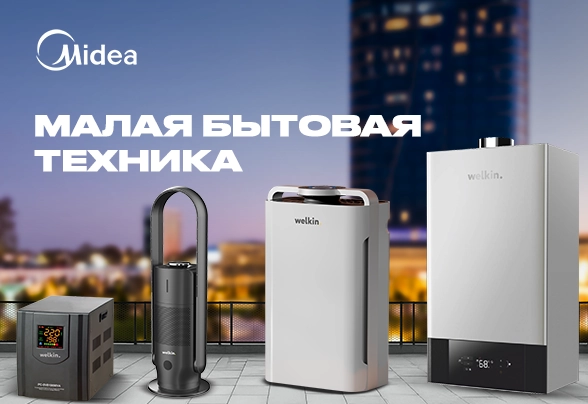
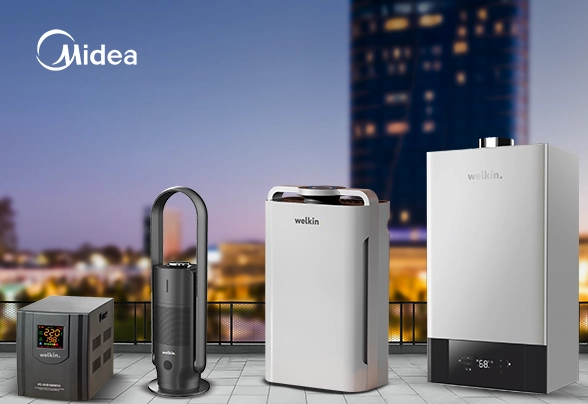
upd

Changed region(s): [[0.0612, 0.2673, 0.7347, 0.4455]]

diff --git a/src/Components/Homepage/Banners.tsx b/src/Components/Homepage/Banners.tsx
@@ -1,58 +1,17 @@
-"use client";
 import styles from "./Homepage.module.scss";
-import { MdNavigateNext } from "react-icons/md";
-import { Autoplay, EffectFade, Navigation, Pagination } from "swiper/modules";
-import { Swiper, SwiperSlide } from "swiper/react";
-import { bannerImages } from "./Data/Banners.data";
 import Image from "next/image";
-import "swiper/css";
-import "swiper/css/effect-fade";
-import "swiper/css/pagination";
+import banner from "@/../public/Img/Homepage/Slider/iphone midea.webp";
+import bannerM from "@/../public/Img/Homepage/Slider/iphone midea mob.webp";
 import Link from "next/link";
 
 function Banners() {
      return (
           <section className={styles.banners}>
                <div className="container">
-                    <Swiper
-                         className={styles.banners__swiper}
-                         slidesPerView={1}
-                         loop
-                         effect={"fade"}
-                         pagination={{
-                              clickable: true,
-                              el: `.${styles.banners__bulletContainer}`,
-                         }}
-                         navigation={{
-                              nextEl: `.${styles.banners__nextSlide}`,
-                              prevEl: `.${styles.banners__prevSlide}`,
-                         }}
-                         autoplay={{
-                              delay: 5000,
-                              pauseOnMouseEnter: true,
-                         }}
-                         modules={[Autoplay, EffectFade, Navigation, Pagination]}
-                    >
-                         <button className={styles.banners__nextSlide}>
-                              <MdNavigateNext />
-                         </button>
-                         <button className={styles.banners__prevSlide}>
-                              <MdNavigateNext />
-                         </button>
-                         <div className={styles.banners__bulletContainer}></div>
-                         {bannerImages.map((el, index) => {
-                              return (
-                                   <SwiperSlide key={index}>
-                                        <Link href={el.href} className={styles.banners__imgBody}>
-                                             <Image priority src={el.pc} alt="слайд" fill style={{ objectFit: "cover" }} />
-                                        </Link>
-                                        <Link href={el.href} className={styles.banners__imgBodyM}>
-                                             <Image priority src={el.mobile} alt="слайд" fill style={{ objectFit: "cover" }} />
-                                        </Link>
-                                   </SwiperSlide>
-                              );
-                         })}
-                    </Swiper>
+                    <Link href={"/catalog/air-conditioners"} className="overflow-hidden block rounded-[10px]">
+                         <Image src={banner} alt="Midea iPhone акция" width={1920} height={1080} className="h-auto w-full object-cover hidden md:block" />
+                         <Image src={bannerM} alt="Midea iPhone акция" width={1920} height={1080} className="h-auto w-full object-cover block md:hidden" />
+                    </Link>
                </div>
           </section>
      );

diff --git a/src/app/catalog/page.tsx b/src/app/catalog/page.tsx
@@ -1,98 +1,11 @@
 import styles from "@/Components/Catalog/Catalog.module.scss";
 import NextBreadcrumb from "@/Components/Utilities/Breadcrumbs";
-import rac from "@/../public/Img/Catalog/midea-aircond.webp";
-import lcac from "@/../public/Img/Catalog/midea-lcac.webp";
-import cac from "@/../public/Img/Catalog/midea-cac.webp";
-import wha from "@/../public/Img/Catalog/midea-wha.webp";
-import mda from "@/../public/Img/Catalog/midea-mda.webp";
+import rac from "@/../public/Img/Homepage/Catalog/airconds-mob.webp";
+import lcac from "@/../public/Img/Homepage/Catalog/lcac.webp";
+import cac from "@/../public/Img/Homepage/Catalog/cac.webp";
+import wha from "@/../public/Img/Homepage/Catalog/wha.webp";
+import mda from "@/../public/Img/Homepage/Catalog/mda.webp";
 import Catalog from "@/ComponentsNew/Catalog/Catalog";
-
-/*const catalog = [
-     {
-          id: 0,
-          title: "Бытовые сплит-системы",
-          img: aircond,
-          href: "/catalog/air-conditioners",
-     },
-     {
-          id: 1,
-          title: "Мультисплит-системы",
-          img: multi,
-          href: "/catalog/multisplit",
-     },
-     {
-          id: 2,
-          title: "Полупромышленные сплит-системы",
-          img: semi,
-          href: "/catalog/semi-industrial",
-     },
-     {
-          id: 3,
-          title: "VRF-системы",
-          img: vrf,
-          href: "/catalog/vrf",
-     },
-     {
-          id: 4,
-          title: "Чиллеры",
-          img: chiller,
-          href: "/catalog/chillers",
-     },
-     {
-          id: 5,
-          title: "Фанкойлы",
-          img: fancoil,
-          href: "/catalog/fancoils",
-     },
-     {
-          id: 6,
-          title: "Холодильники",
-          img: fridge,
-          href: "/catalog/fridges",
-     },
-     {
-          id: 7,
-          title: "Стиральные машины",
-          img: wash,
-          href: "/catalog/wash",
-     },
-     {
-          id: 8,
-          title: "Газовые котлы",
-          img: boilers,
-          href: "/catalog/boilers",
-     },
-     {
-          id: 9,
-          title: "Очистители - Увлажнители",
-          img: airPur,
-          href: "/catalog/air-purifiers",
-     },
-     {
-          id: 10,
-          title: "Тепловые завесы",
-          img: heatCurtain,
-          href: "/catalog/heat-curtains",
-     },
-     {
-          id: 11,
-          title: "Осушители",
-          img: dehumid,
-          href: "/catalog/dehumids",
-     },
-     {
-          id: 12,
-          title: "Рекуператоры",
-          img: recup,
-          href: "/catalog/recups",
-     },
-     {
-          id: 13,
-          title: "Кулеры",
-          img: cooler,
-          href: "/catalog/coolers",
-     },
-];*/
 
 export const metadata = {
      title: `Каталог товаров | Каталог Midea & Welkin | Buytoday`,

diff --git a/src/ComponentsNew/Homepage/Catalog/CatalogCategories.tsx b/src/ComponentsNew/Homepage/Catalog/CatalogCategories.tsx
@@ -52,15 +52,16 @@ const CatalogCategories: React.FC<Props> = ({}) => {
                               alt={racCategory.title}
                               width={1920}
                               height={1080}
-                              className="object-cover h-auto w-full aspect-[288/198] lg:aspect-[3.017/1] hidden lg:block group-hover:scale-105 duration-700"
+                              className="object-cover h-auto w-full aspect-[288/198] lg:aspect-[3.017/1] hidden lg:block group-hover:scale-105 duration-700 rounded-[10px]"
                          />
                          <Image
                               src={racCategory.imageMobile}
                               alt={racCategory.title}
                               width={1920}
                               height={1080}
-                              className="object-cover h-auto w-full aspect-[288/198] lg:aspect-[3.017/1] block lg:hidden"
+                              className="object-cover h-auto w-full aspect-[288/198] lg:aspect-[3.017/1] block lg:hidden rounded-[10px]"
                          />
+                         <div className="text-[20px] mt-4 font-medium leading-[110%]">{racCategory.title}</div>
                     </Link>
                </div>
                <div className="grid grid-cols-1 gap-[35px] lg:grid-cols-2 mt-[35px]">
@@ -72,8 +73,9 @@ const CatalogCategories: React.FC<Props> = ({}) => {
                                         alt={el.title}
                                         width={1920}
                                         height={1080}
-                                        className="object-cover h-auto w-full aspect-[288/198] group-hover:scale-105 duration-700"
+                                        className="object-cover h-auto w-full aspect-[288/198] group-hover:scale-105 duration-700 rounded-[10px]"
                                    />
+                                   <div className="text-[20px] mt-4 font-medium leading-[110%]">{el.title}</div>
                               </Link>
                          );
                     })}

diff --git a/src/ComponentsNew/Catalog/Catalog.tsx b/src/ComponentsNew/Catalog/Catalog.tsx
@@ -24,9 +24,9 @@ const Catalog: React.FC<Props> = ({ items, isSubcatalog }) => {
                                         alt={el.title}
                                         width={1000}
                                         height={1000}
-                                        className={`h-auto aspect-square w-full rounded-[20px] ${isSubcatalog ? "object-contain" : "object-cover"}`}
+                                        className={`h-auto w-full rounded-[20px] ${isSubcatalog ? "object-contain" : "object-cover"} aspect-[288/198]`}
                                    />
-                                   <div className="text-center mt-3 border-b border-[#cccccc] font-medium text-[20px] pb-5 sm:pb-0 sm:border-b-0">{el.title}</div>
+                                   <div className="text-center mt-3 border-b border-[#cccccc] font-medium text-[14px] pb-5 lg:text-[20px] sm:pb-0 sm:border-b-0">{el.title}</div>
                               </Link>
                          </li>
                     );

diff --git a/src/Components/Homepage/Promotions/Promotions.tsx b/src/Components/Homepage/Promotions/Promotions.tsx
@@ -26,7 +26,7 @@ const Promotions = async () => {
      const data = await getPromotions();
      return (
           data.data && (
-               <section className="mt-[120px]">
+               <section className="mt-20 md:mt-[120px]">
                     <Container>
                          <div className="grid grid-cols-1 lg:grid-cols-2 gap-x-8 gap-y-[60px]">
                               {data.data.map((el: Promotion) => {

diff --git a/src/ComponentsNew/Homepage/Catalog/Catalog.tsx b/src/ComponentsNew/Homepage/Catalog/Catalog.tsx
@@ -6,7 +6,7 @@ interface Props {}
 
 const Catalog: React.FC<Props> = ({}) => {
      return (
-          <section className="mt-[120px]">
+          <section className="mt-20 md:mt-[120px]">
                <Container className="">
                     <div className="bg-white rounded-[15px] p-5 lg:p-10">
                          <div>
